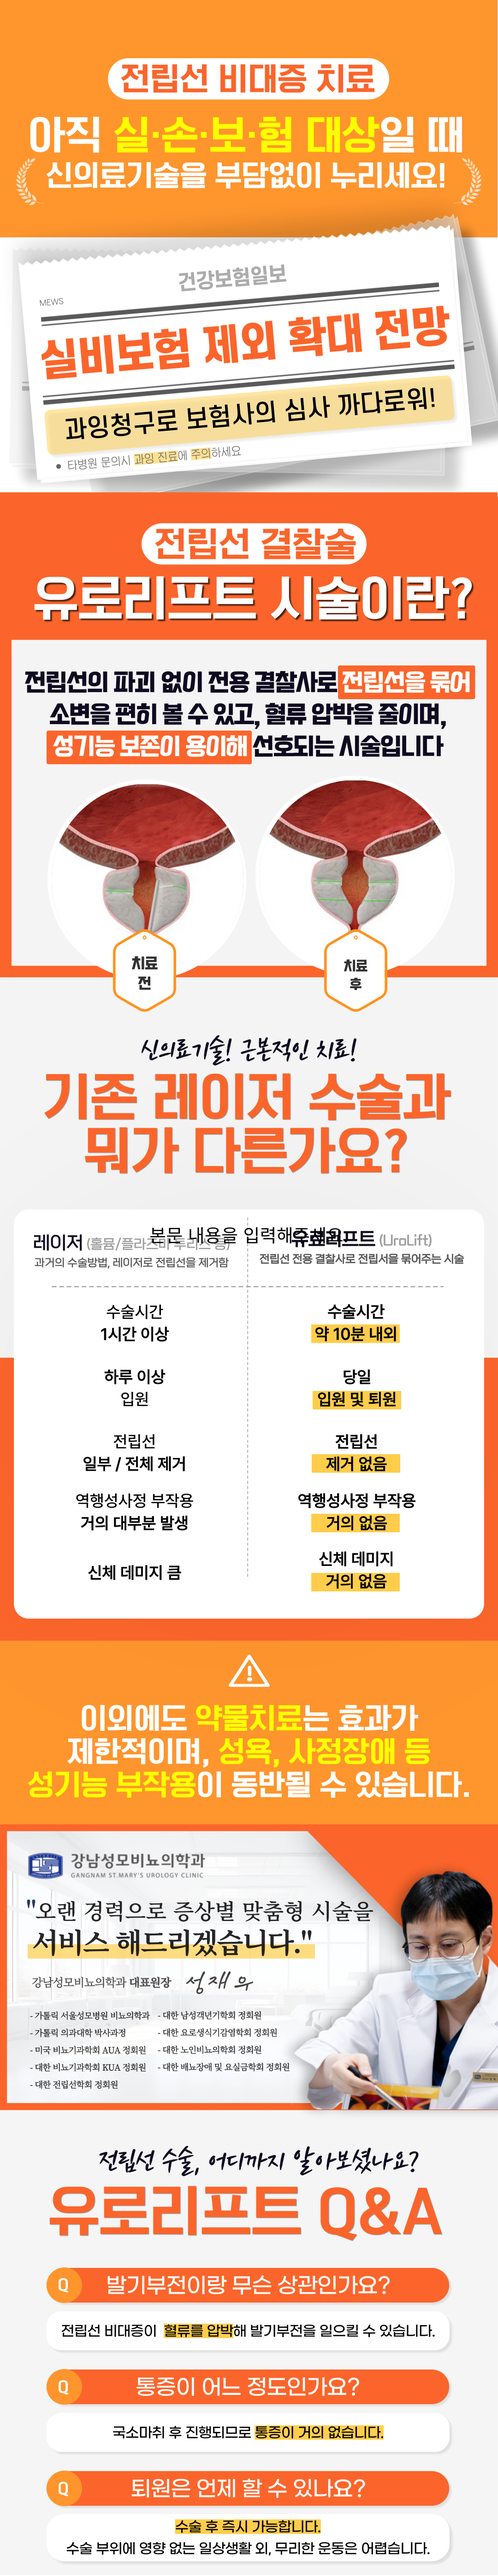
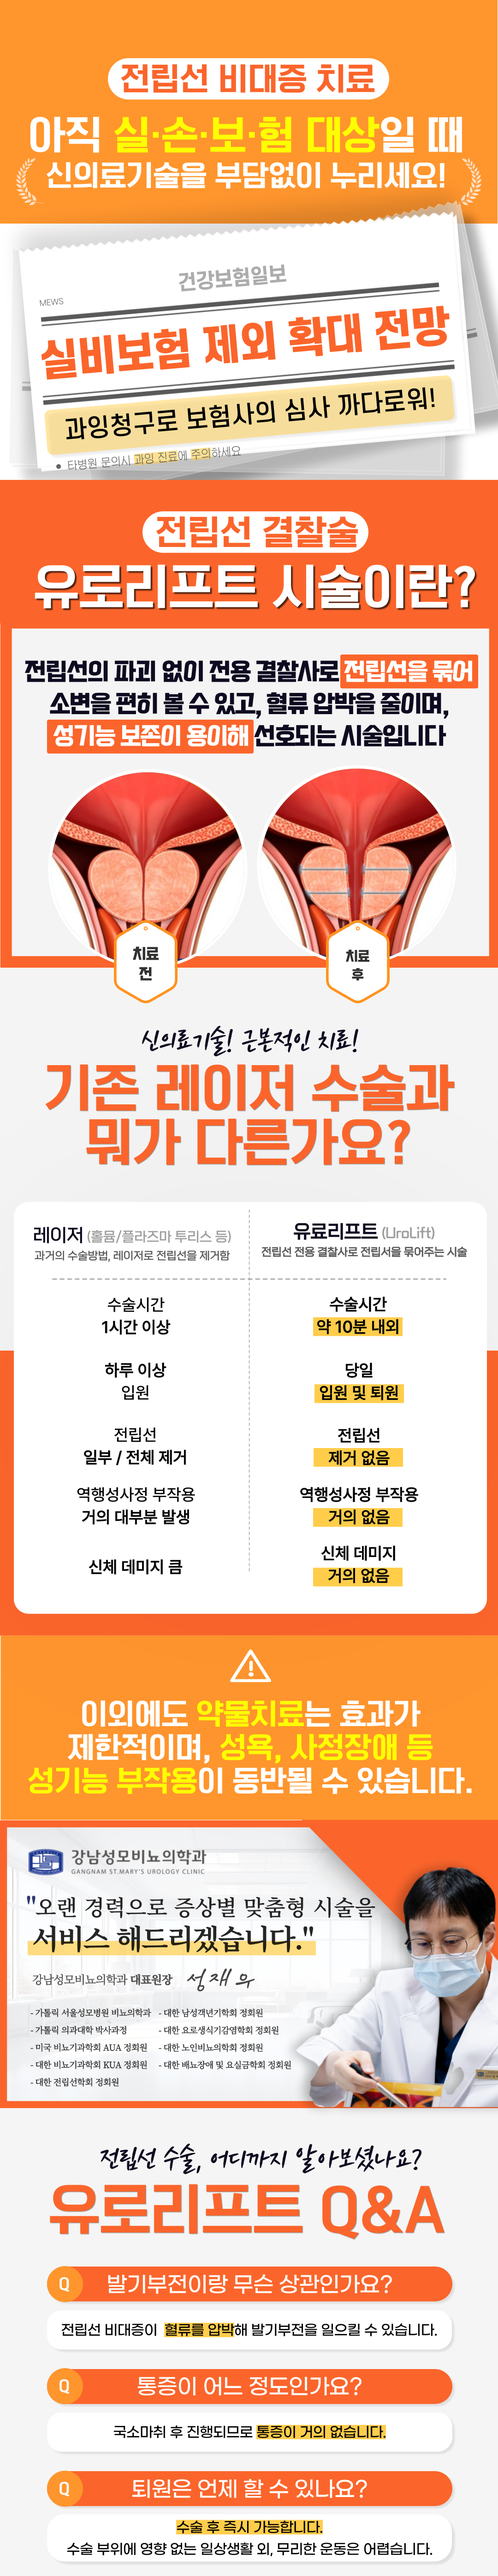
전립선 랜딩 페이지 웹 버그 잡는 중

Changed region(s): [[0.0, 0.0624, 1.0, 0.9986], [0.8861, 0.8737, 0.9167, 0.9362], [0.825, 0.9674, 0.8556, 0.9986]]

diff --git a/mansmedical.kr/index copy.html b/mansmedical.kr/index copy.html
@@ -77,7 +77,6 @@
         <script src="junlipsun_files copy/landing-server-comunication.js" defer></script>
         <script src="junlipsun_files copy/jquery-1.12.4.min.js"></script>
         <script src="junlipsun_files copy/jquery.menu.js"></script>
-<!--        <script src="junlipsun_files copy/placeholders.min.js"></script>-->
     </head>
     <body onresize="setSize()">
       <!-- Google Tag Manager (noscript) -->
@@ -156,47 +155,43 @@
             </div>
             <div class="p_0 p_03" id="f1" style="padding:0 auto; margin:0 auto;">
               <img src="./junlipsun_files copy/last_info.png">
+              <div class="info">
+                <div class="name">
+                  <div>성 명 |</div>
+                  <input type="text" id="name" onkeydown="checkSpace(this)" placeholder="성명을 입력해 주세요">
+                </div>
+                <div class="phone">
+                  <div>번 호 | 010</div>
+                  <input type="number" id="phone" onkeydown="checkLength(this)" placeholder="번호를 입력해 주세요">
+                </div>
+                <div class="insurance">
+                  <div>실손보험 <br>가입여부</div>
+                  <div class="y active" onclick="setSilby('y', this)">예<input type="radio" id="sibly" class="hide"></div>
+                  <div class="n" onclick="setSilby('n', this)">아니요<input type="radio" id="sibly" class="hide"></div>
+                </div>
+                <div class="con_t02 con_t02_btn">
+                  <input
+                      id="checkbox"
+                      type="checkbox"
+                      name="wr_9"
+                      value=""
+                      id="wr_9"
+                      required=""
+                      checked="checked"
+                      class="checkbox_pay">
+                  <label for="wr_9" class="wr_9">개인정보처리방침에 동의합니다.</label>
+                  <a
+                      onclick="showPopup()"
+                      class="modalbutton"
+                      style="color:#fff; padding-right:20px;">
+                      <u>[보기]</u>
+                  </a>
+              </div>
+                <div class="btn" onclick="checkForm()">
+                  <img src="junlipsun_files copy/btn.png" alt="">
+                </div>
+              </div>
             </div>
-            <!-- <div class="info">
-              <div class="namee">
-                <div>성 명 |</div>
-                <input type="text" id="name" onkeydown="checkSpace(this)">
-              </div>
-              <div class="phone">
-                <div>번 호 |</div>
-                <input type="number" id="phone" onkeydown="checkLength(this)">
-              </div>
-              <div class="insurance">
-                <div>실손보험 <br>가입여부</div>
-                <div>예<input type="radio" id="sibly" ></div>
-                <div>아니요<input type="radio" id="sibly" ></div>
-              </div>
-              <div class="btn" onclick="checkForm()">
-                <img src="junlipsun_files copy/btn.png" alt="">
-              </div>
-              <div class="namee">
-                <div>성 명 |</div>
-                <input type="text" id="name">
-              </div>
-              <div class="con_t02 con_t02_btn">
-                <input
-                    id="checkbox"
-                    type="checkbox"
-                    name="wr_9"
-                    value=""
-                    id="wr_9"
-                    required=""
-                    checked="checked"
-                    class="checkbox_pay">
-                <label for="wr_9">개인정보처리방침에 동의합니다.</label>
-                <a
-                    onclick="showPopup()"
-                    class="modalbutton"
-                    style="color:#fff; padding-right:20px;">
-                    <u>[보기]</u>
-                </a>
-            </div>
-            </div> -->
         </div>
         </div>
         <div class="popup">

diff --git a/mansmedical.kr/junlipsun_files copy/style.css b/mansmedical.kr/junlipsun_files copy/style.css
@@ -1,5 +1,7 @@
 @charset "utf-8";
-
+* {
+  box-sizing:border-box
+}
 /* 게시판 목록 */
 #bo_list {position:relative;margin-bottom:20px}
 #bo_list:after {display:block;visibility:hidden;clear:both;content:""}
@@ -361,9 +363,122 @@ box-shadow:inset 0 1px 2px rgba(0, 0, 0, 0.1)}
   top: 0;
   z-index: 1;
 }
-
+.p_03 {
+  position: relative;
+}
+.info {
+  position: absolute;
+  left: 50%; bottom: 10%;
+  transform: translateX(-50%);
+  width: 75%;
+}
+.info > div:not(.btn) {
+  display: flex;
+  align-items: center;
+  justify-content: space-between;
+  font-size: 3.5vw;
+  font-weight: bold;
+}
+.phone > div:first-child,
+.name > div:first-child  {
+ margin: 0 0 0 2%
+}
+.name input,
+.phone input {
+  margin: 0 0 0 3%;
+}
+.name {
+  display: flex;
+  align-items: center;
+}
+.name > div,
+.phone > div {
+}
+.name > input,
+.phone > input {
+  border: none;
+  padding: 2%;
+  border-radius: 10px;
+}
+.name > input {
+  width: 75%;
+}
+.phone > input {
+  width: 60%;
+}
+.hide {
+  opacity: 0;
+}
+.phone {
+  margin: 2% 0 0;
+}
+.insurance {
+  margin: 2% 0 0;
+}
+.insurance > div:first-child {
+  background: #fff;
+  border-radius: 15px;
+  padding: 2%;
+  font-size: 3vw;
+}
+.con_t02_btn {
+  display: block !important;
+}
+.wr_9 {
+  font-size: 2vw !important;
+}
+.y, .n {
+  border-radius: 5px;
+  padding: 2% 0;
+  width: 35%;
+  text-align: center;
+}
+.y,
+.n {
+  background: #fff;
+}
+.y.active,
+.n.active {
+  background: #FFCD4A;
+}
 @keyframes wink {
   0% { opacity: .7;}
   50% { opacity: .3;}
   100% { opacity: .7;}
+}
+input::-webkit-input-placeholder {
+  color: dimgray;
+  font-size: 3vw;
+}
+input:-ms-input-placeholder {
+  color: dimgray;
+  font-size: 3vw;
+}
+input::-webkit-input-placeholder {
+  color: dimgray;
+  font-size: 3vw;
+}
+input:-ms-input-placeholder {
+  color: dimgray;
+  font-size: 3vw;
+}
+.btn {
+  height: fit-content;
+  margin: 2% 0 0;
+}
+.modalbutton {
+  color: dimgray !important;
+  font-size: 2vw !important;
+}
+input::-webkit-outer-spin-button,
+input::-webkit-inner-spin-button {
+  -webkit-appearance: none;
+  margin: 0;
+}
+/* Firefox */
+input[type=number] {
+  -moz-appearance: textfield;
+}
+.con_t02_btn, .btn {
+  cursor: pointer;
 }

diff --git a/mansmedical.kr/junlipsun_files copy/common.js b/mansmedical.kr/junlipsun_files copy/common.js
@@ -1,18 +1,28 @@
 console.log('js is load👍');
 
-function setSize() {
-  var main_page = $('.p_02'),
-      offsetHeight = $('.p_01').height(),
-      offsetHeightt = $('.p_02').height(),
-      // calcHeight = (offsetHeightt) + (offsetHeight-90),
-      offsetWidth = offsetHeight/5;
+var main_page = $('.p_02'),
+    offsetHeight = $('.p_01').height(),
+    offsetHeightt = $('.p_02').height(),
+    offsetWidth = offsetHeight/9.7,
+    silby = 'y';
 
-  console.log('isResize');
-  console.log(offsetHeight);
-  console.log(offsetWidth);
-  $('.p_02').css('top', offsetHeight + "px");
-  // $('.p_03').css('top', (offsetHeightt) + (offsetHeight-90) + "px");
-  $('.p_03').css('top', (offsetHeightt) + (offsetHeight) + "px");
+$('.p_02').css('top', offsetHeight-offsetWidth + "px");
+$('.p_03').css('top', (offsetHeightt-offsetWidth) + (offsetHeight) + "px");
+
+
+function setSilby(e, i) {
+  if(e == 'y') silby = "y";
+  else if(e == 'n') silby = "n";
+  $(i).addClass('active');
+  $(i).siblings().removeClass('active');
+}
+function setSize() {
+  var offsetHeight = $('.p_01').height(),
+      offsetHeightt = $('.p_02').height(),
+      offsetWidth = offsetHeight/9.7;
+
+  $('.p_02').css('top', offsetHeight-offsetWidth + "px");
+  $('.p_03').css('top', (offsetHeightt-offsetWidth) + (offsetHeight) + "px");
 }
 
 $(window).scroll(function(){ 
@@ -825,7 +835,6 @@ async function checkForm() {
         phone = $('#phone').val(),
         checkbox = $('#checkbox');
 
-
   var blockK = window.blockedKeyword.data;
   var checkName = $('#name').val();
   var isBreak = false;
@@ -877,7 +886,8 @@ async function checkForm() {
 
     var formData =  [
         {"key": "이름", "value":name},
-        {"key": "번호", "value":"010"+phone}
+        {"key": "번호", "value":"010"+phone},
+        {"key": "실비", "value":silby}
     ];
 
     var variable = window.consultingResult = await inputCustData(formData),

diff --git a/mansmedical.kr/junlipsun_files copy/default.css b/mansmedical.kr/junlipsun_files copy/default.css
@@ -198,10 +198,9 @@ border:1px solid #558ab7 !important;
 .con_form{width:100%; height:auto; padding:15% 0% 40%; background-size:100%;}
 }
 
-
 /* 공통 */
 
-.p_0{position:relative; top:0px; text-align:center;}
+/* .p_0{position:relative; top:0px; text-align:center;} */
 .p_t1{position:relative; top:0px; padding-top:1%; text-align:center;}
 .p_t2{position:relative; top:0px; padding-top:2%; text-align:center;}
 .p_t3{position:relative; top:0px; padding-top:3%; text-align:center;}
@@ -224,7 +223,7 @@ border:1px solid #558ab7 !important;
 /* 테블렛 */
 @media (max-width:1200px) and (min-width:620px){
 .p_0{position:relative; top:0px; text-align:center;}
-.p_0 img:not(.pointer){width:90%}
+.p_0 img:not(.pointer, .btn){width:90%}
 
 .p_t1{position:relative; top:0px; padding-top:1%; text-align:center;}
 .p_t1 img{width:90%}
@@ -265,7 +264,7 @@ border:1px solid #558ab7 !important;
 /* 모바일 */
 @media (max-width:620px){
 .p_0{position:relative; top:0px; text-align:center;}
-.p_0 img:not(.pointer){width:100%}
+.p_0 img:not(.pointer, .btn){width:100%}
 
 .p_t1{position:relative; top:0px; padding-top:1%; text-align:center;}
 .p_t1 img{width:100%}
@@ -681,7 +680,7 @@ box-sizing:content-box;
 
 
 @media screen and (max-width:640px){
-.mobile_size1{width:100px;}
+  .mobile_size1{width:100px;}
 }
 
 .ui-dialog {
